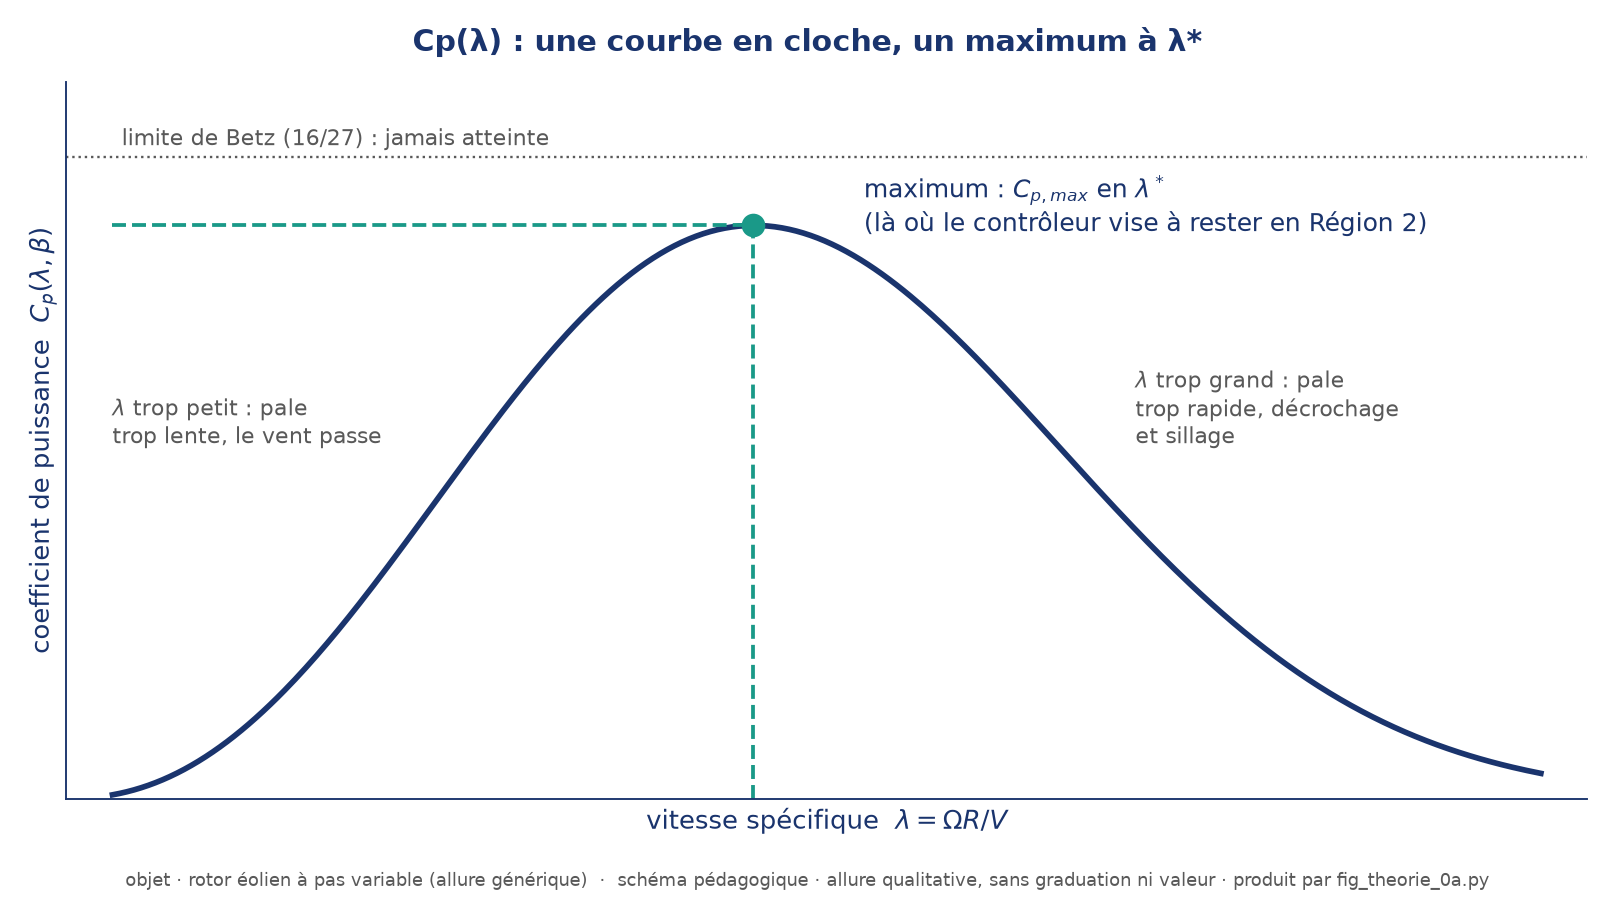
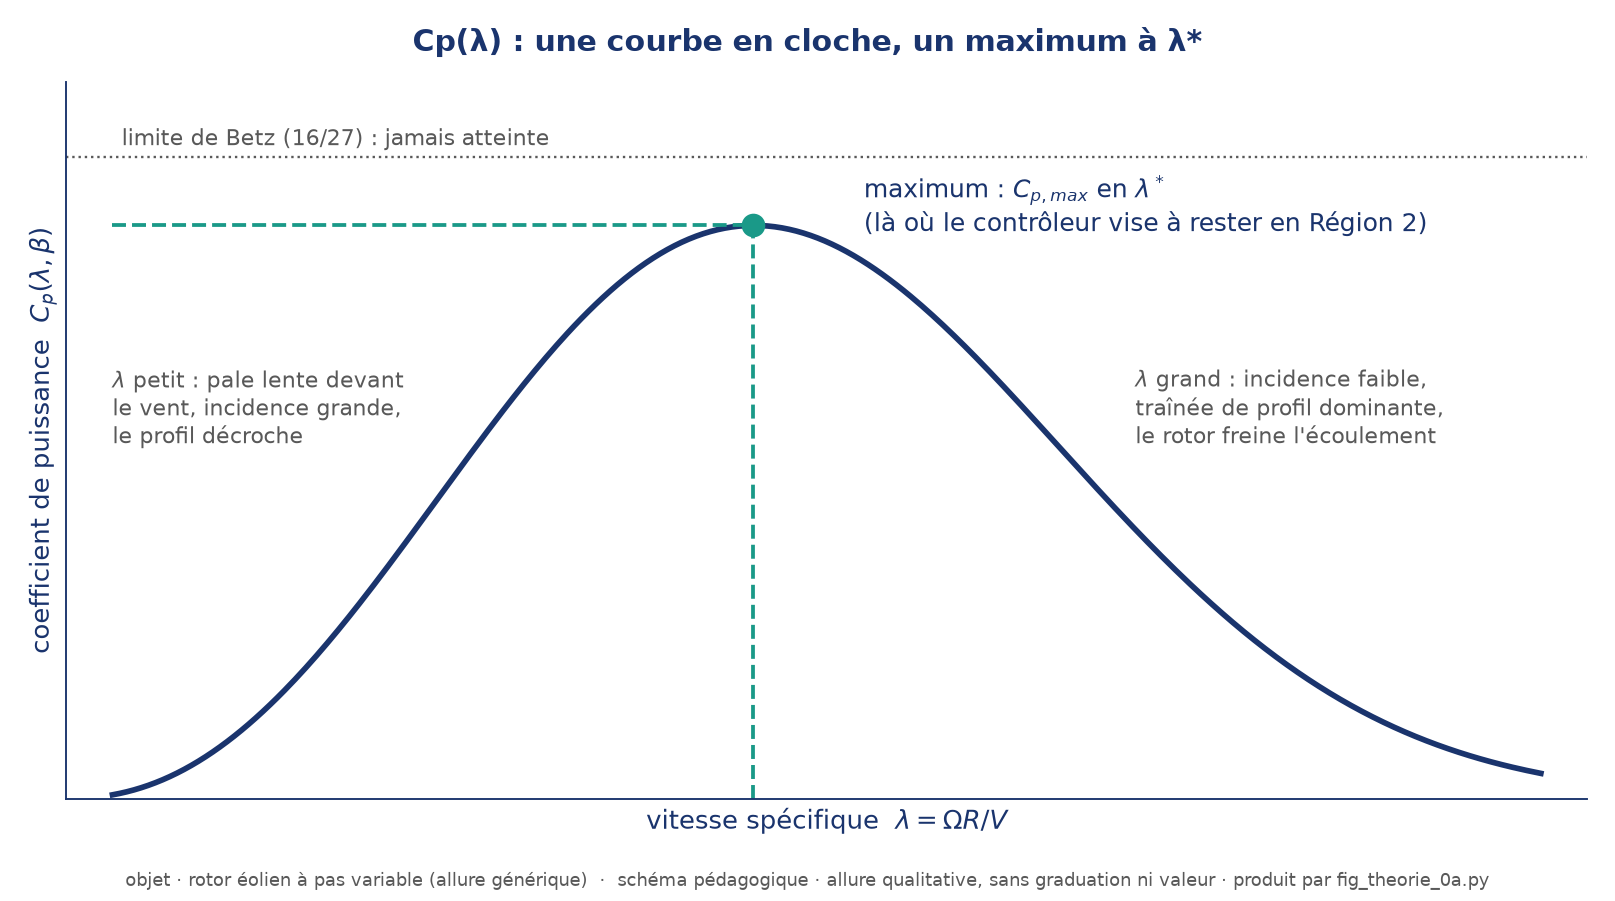
LOT F : loi de rampe, courbe Cp(lambda) du modele (donnees + script), methode d'equilibre des couples, F1/README 0a/ENONCE, DTU invisible, figures corrigees

Changed region(s): [[0.7121, 0.404, 0.8978, 0.4972], [0.0619, 0.404, 0.2477, 0.4972]]

diff --git a/outils/courbe_cp_nrel5mw.py b/outils/courbe_cp_nrel5mw.py
@@ -1,0 +1,96 @@
+#!/usr/bin/env python3
+"""Courbe Cp(λ) de la NREL 5 MW à calage nul, calculée sur le modèle du dépôt.
+
+POURQUOI : Jonkman 2009 ne donne que le point maximal (Cp = 0,482 à λ = 7,55, calage 0°, §7.2 p.19),
+pas la courbe. Pour résoudre à la main l'équilibre des couples en Region 1½ (séance 0a, Q0.1), il faut
+la courbe : on la calcule avec le modèle `modele_fixe` lui-même (AeroDyn v15, BEMT quasi-stationnaire,
+`Wake_Mod = 1`), pour que la courbe et les cas F01/F02 parlent du même modèle.
+
+MÉTHODE : le rotor est tenu à vitesse imposée (`GenDOF` faux, `RotSpeed` fixe), calage 0°, vent
+stationnaire de 8 m/s au moyeu avec le même cisaillement que F01 (exposant 0,11), toutes les autres
+dynamiques coupées (lames rigides, tour et plateforme fixes, ni contrôleur, ni hydro, ni SubDyn). On
+relève `RtAeroCp` (rendement aérodynamique du rotor, défini par OpenFAST), moyenné sur un nombre ENTIER
+de tours (le cisaillement et l'ombre de la tour font osciller le signal à 1P et 3P).
+`λ = Ω·R/V` avec R = 63 m, V = vitesse au moyeu (définition de la fiche F1).
+
+SORTIE : `data/cp_lambda_nrel5mw_pitch0.csv` (λ, Ω, Cp) — suivi par git, relu par la fiche F1.
+
+Usage (environnement s9gm-fowt actif, depuis la racine du dépôt) :
+    python outils/courbe_cp_nrel5mw.py
+"""
+import csv
+import math
+import shutil
+import sys
+from pathlib import Path
+
+import numpy as np
+
+RACINE = Path(__file__).resolve().parents[1]
+sys.path.insert(0, str(RACINE))
+from s9gm import cas, lancer, lire  # noqa: E402
+
+MODELE = RACINE / "tutorials" / "prise_en_main" / "modele_fixe"
+TRAVAIL = RACINE / "results" / "_cp"
+SORTIE = RACINE / "data" / "cp_lambda_nrel5mw_pitch0.csv"
+R, V = 63.0, 8.0
+LAMBDAS = [1, 2, 3, 4, 5, 6, 7, 7.55, 8, 9, 10, 11, 12, 13, 14, 15, 16]
+DOF_COUPES = ["FlapDOF1", "FlapDOF2", "EdgeDOF", "DrTrDOF", "GenDOF", "YawDOF", "TwFADOF1",
+              "TwFADOF2", "TwSSDOF1", "TwSSDOF2", "PtfmSgDOF", "PtfmSwDOF", "PtfmHvDOF",
+              "PtfmRDOF", "PtfmPDOF", "PtfmYDOF"]
+
+
+def preparer(lam):
+    d = TRAVAIL / f"lam_{lam:g}"
+    if d.exists():
+        shutil.rmtree(d)
+    shutil.copytree(MODELE, d)
+    rpm = lam * V / R * 60 / (2 * math.pi)
+
+    def edite(nom, modifs):
+        lignes, fin = cas._lire_lignes(d / nom)
+        for k, v in modifs.items():
+            cas.remplacer_valeur(lignes, k, v)
+        cas._ecrire_lignes(d / nom, lignes, fin)
+
+    edite("main.fst", {"TMax": "60", "CompServo": "0", "CompSeaSt": "0", "CompHydro": "0",
+                       "CompSub": "0"})
+    edite("config_inflow.dat", {"WindType": "1", "HWindSpeed": f"{V:g}", "PLExp": "0.11"})
+    edite("config_elastodyn.dat", {**{k: "False" for k in DOF_COUPES}, "RotSpeed": f"{rpm:.6f}",
+                                   "BlPitch(1)": "0", "BlPitch(2)": "0", "BlPitch(3)": "0"})
+    return d, rpm
+
+
+def cp_moyen(d):
+    df, _ = lire.lire(d / "main.outb")
+    t = df["Time"].to_numpy()
+    m = t >= 20.0
+    az = np.unwrap(np.radians(df.loc[m, "Azimuth"].to_numpy()))
+    tours = int((az[-1] - az[0]) // (2 * math.pi))
+    if tours < 1:  # rotor très lent : moins d'un tour dans la fenêtre -> on prend toute la fenêtre
+        k = m.sum()
+    else:
+        fin = np.searchsorted(az - az[0], tours * 2 * math.pi)
+        k = max(fin, 2)
+    return float(df.loc[m, "RtAeroCp"].to_numpy()[:k].mean()), tours
+
+
+def main():
+    TRAVAIL.mkdir(parents=True, exist_ok=True)
+    preps = [preparer(l) for l in LAMBDAS]
+    res = lancer.lancer_serie([d for d, _ in preps], coeurs=4, reprise=False)
+    mauvais = [r["cas"] for r in res if r["statut"] != "termine"]
+    if mauvais:
+        sys.exit(f"cas en échec : {mauvais}")
+    SORTIE.parent.mkdir(exist_ok=True)
+    with open(SORTIE, "w", newline="", encoding="utf-8") as f:
+        w = csv.writer(f)
+        w.writerow(["lambda", "omega_rpm", "Cp", "tours_moyennes"])
+        for lam, (d, rpm) in zip(LAMBDAS, preps):
+            cp, tours = cp_moyen(d)
+            w.writerow([f"{lam:g}", f"{rpm:.3f}", f"{cp:.4f}", tours])
+            print(f"lambda={lam:>5g}  Omega={rpm:6.2f} rpm  Cp={cp:7.4f}  ({tours} tours)")
+
+
+if __name__ == "__main__":
+    main()

diff --git a/fiches/F1_Aero-regulation.md b/fiches/F1_Aero-regulation.md
@@ -35,7 +35,7 @@ plate autour : un écart modéré de `λ` coûte peu de puissance.*
 NREL 5 MW de ce projet) ; Jonkman 2009 en distingue cinq (1, 1½, 2, 2½, 3), et le contrôleur
 du modèle les met toutes en œuvre. Elles se repèrent à la **vitesse de rotation côté génératrice**
 (`Ω_gen = 97 · Ω_rotor`, multiplicateur 97:1) :
-- **Region 1** (sous `VS_CtInSp`) : couple générateur nul, le rotor accélère librement.
+- **Region 1** (sous `VS_CtInSp`) : couple générateur nul : aucune puissance électrique (`P = 0`), le rotor accélère sous l'effet du vent (Jonkman 2009, §7.2 p.19 : la Region 1 précède le cut-in).
 - **Region 1½** (entre `VS_CtInSp` et `VS_Rgn2Sp`) : transition de démarrage — le couple suit une
   **rampe linéaire** qui part de zéro à `VS_CtInSp` et rejoint la loi de Region 2 à `VS_Rgn2Sp`.
   La rampe est raide : la vitesse reste confinée dans cette bande étroite, et la machine produit
@@ -88,6 +88,50 @@ plus bas, la rampe tient la vitesse dans sa bande et la loi `λ*·V/R` sous-esti
 régime nominal — **à vous de calculer à quelle vitesse de vent ce régime est atteint**, et de comparer ce résultat au vent
 nominal (11,4 m/s) : si les deux diffèrent, c'est que la Region 2½ s'intercale entre les deux,
 avant la Region 3.
+
+## Region 1½ : la loi de la rampe, la courbe `Cp(λ)` et l'équilibre des couples
+
+En Region 2 la loi `λ*·V/R` donne `Ω` directement. **En Region 1½ elle ne suffit pas** : la rampe de couple
+impose une bande de vitesse et `Ω` se *calcule* par un équilibre. Trois ingrédients, tous donnés ici.
+
+**1. La loi de couple du contrôleur** (donnée d'entrée, `DISCON.F90` : `VS_Slope15` ligne 175, couples
+lignes 383-391), côté génératrice, avec `ω_g = N·Ω` (rad/s, `N = 97`) :
+
+| Région | Couple générateur `Q_gen(ω_g)` (N·m, côté génératrice) |
+|---|---|
+| 1 : `ω_g ≤ VS_CtInSp` | `0` |
+| 1½ : `VS_CtInSp < ω_g < VS_Rgn2Sp` | `VS_Slope15 · (ω_g − VS_CtInSp)`, avec `VS_Slope15 = VS_Rgn2K · VS_Rgn2Sp² / (VS_Rgn2Sp − VS_CtInSp)` |
+| 2 : au-dessus, jusqu'à la Region 2½ | `VS_Rgn2K · ω_g²` |
+
+avec `VS_CtInSp = 70,16224 rad/s`, `VS_Rgn2Sp = 91,21091 rad/s`, `VS_Rgn2K = 2,332287 N·m/(rad/s)²`.
+Côté rotor, le couple équivalent est `N · Q_gen(N·Ω)`.
+
+**2. La courbe `Cp(λ)` de la NREL 5 MW à calage nul.** Jonkman 2009 ne donne que le point maximal (`Cp = 0,482`
+à `λ = 7,55`, §7.2 p.19). La courbe ci-dessous est **calculée sur le modèle du dépôt** (OpenFAST v5.0.0, AeroDyn v15,
+rotor à vitesse imposée, calage 0°, `V` = 8 m/s au moyeu, cisaillement 0,11 comme F01 ; script
+`outils/courbe_cp_nrel5mw.py`, données `data/cp_lambda_nrel5mw_pitch0.csv`). Son maximum (≈ 0,47 vers `λ = 7`) diffère
+de quelques pour cent du point de Jonkman : on utilise la courbe du dépôt pour rester cohérent avec les cas F01 et F02.
+
+| λ | 1 | 2 | 3 | 4 | 5 | 6 | 7 | 7,55 | 8 | 9 | 10 | 11 | 12 | 13 | 14 | 15 | 16 |
+|---|---|---|---|---|---|---|---|---|---|---|---|---|---|---|---|---|---|
+| Cp | 0,0058 | 0,0243 | 0,1054 | 0,2229 | 0,3645 | 0,4468 | 0,4660 | 0,4644 | 0,4610 | 0,4431 | 0,4144 | 0,3779 | 0,3334 | 0,2850 | 0,2306 | 0,1651 | 0,0880 |
+
+![Cp(λ) de la NREL 5 MW à calage nul, calculée sur le modèle du dépôt](figures/FIG-DMO-S9-008.png)
+
+*Figure 6 — `Cp(λ)` du modèle du dépôt à calage nul. Contrairement aux figures 1 à 5, celle-ci est chiffrée :
+c'est une courbe de la machine, pas une réponse de rendu.*
+
+**3. La méthode d'équilibre.** À vent `V` fixé, la vitesse d'équilibre `Ω` vérifie l'égalité des couples,
+ramenés côté rotor :
+
+`Q_aéro(Ω) = ½ ρ π R² V³ · Cp(ΩR/V) / Ω  =  N · Q_gen(N·Ω)`.
+
+Deux façons de la résoudre : **graphiquement** (tracer les deux membres en fonction de `Ω`, l'intersection est le
+point de fonctionnement) ou **par itération** (partir d'un `Ω` plausible, évaluer l'écart des deux couples, corriger
+`Ω` dans le sens qui le réduit — bissection ou Newton). Lire `Cp` par interpolation dans le tableau. Pour la
+**puissance** : `P_élec = η · N · Q_gen(N·Ω) · Ω` (rendement électrique `η = 0,944`, Jonkman 2009). En Region 2, la même
+méthode s'applique, avec le couple en `ω_g²`. *Q0.1 exige `Ω` dans chaque région : loi `λ*·V/R` en Region 2, équilibre des
+couples en Region 1½.*
 
 ## Confrontation OpenFAST
 
@@ -170,21 +214,12 @@ Sur l'IEA 15 MW, mêmes données et hypothèses que ci-dessus. Corrigé :
    de combien en pour cent, et pourquoi la tolérance habituelle de ±20 % l'aurait-elle laissée passer
    ou non ?
 
-## Pour aller plus loin — matière du cours DTU (emplacements réservés)
-
-*Un cours construit avec le DTU arrive : sa matière d'aéro-régulation deviendra la source du master
-DMO-S9 (la fiche F1 sert de source provisoire). Les emplacements ci-dessous se remplissent sans
-réécrire les sections précédentes.*
-
-<!-- DTU:BEGIN D1 -->
-**D1. Aérodynamique du rotor (BEM, `Cp(λ, β)` détaillée)** — *(à venir)*
-<!-- DTU:END D1 -->
-<!-- DTU:BEGIN D2 -->
-**D2. Contrôle et régulation (lois de couple, calage, régions, ROSCO / DISCON)** — *(à venir)*
-<!-- DTU:END D2 -->
-<!-- DTU:BEGIN D3 -->
-**D3. Charges et fréquences (1P/3P, diagramme de Campbell, résonances)** — *(à venir)*
-<!-- DTU:END D3 -->
+<!-- DTU : emplacements réservés, invisibles des étudiants — matière du cours construit avec le DTU, future source du master DMO-S9
+     (aéro-régulation). Crédit à inscrire quand la matière entrera : « Technical University of Denmark (DTU) — https://www.dtu.dk/english ».
+[DTU:BEGIN D1] D1. Aérodynamique du rotor (BEM, Cp(λ, β) détaillée) [DTU:END D1]
+[DTU:BEGIN D2] D2. Contrôle et régulation (lois de couple, calage, régions, ROSCO / DISCON) [DTU:END D2]
+[DTU:BEGIN D3] D3. Charges et fréquences (1P/3P, diagramme de Campbell, résonances) [DTU:END D3]
+-->
 
 ## Limites
 

diff --git a/seances/0a/README.md b/seances/0a/README.md
@@ -115,13 +115,15 @@ Doit se terminer par `OpenFAST terminated normally.`.
    fixe quel que soit le vent, et pourquoi faut-il la piloter (couple générateur, puis pitch)
    plutôt que la laisser suivre librement l'aérodynamique ?
 2. **Modèle** — TSR `λ = Ω·R/V` ; coefficient de puissance `Cp(λ,β)`, maximal pour un `λ*`
-   donné ; loi de Region 2 `Ω(V) = λ*·V/R` (couple piloté, pitch fixe). **Domaine de validité** :
+   donné ; loi de Region 2 `Ω(V) = λ*·V/R` (couple piloté, pitch fixe) ; en Region 1½, `Ω` est solution de l'équilibre
+   `Q_aéro(Ω) = N·Q_gen(NΩ)` (couple aérodynamique `½ρπR²V³·Cp(λ)/Ω` contre couple de la rampe du
+   contrôleur, fiche F1). **Domaine de validité** :
    machine à vitesse variable et pitch variable (c'est le cas ici), et seulement entre le seuil de
    Region 2 et le régime nominal : en dessous, la rampe de couple de Region 1½ gouverne ; au-delà,
    Region 2½ puis 3. Repérez la région avant d'appliquer une loi.
-3. **Ordre de grandeur attendu** — la méthode : calculer `Ω` pour chaque vitesse de vent du
-   tableau demandé via `λ*·V/R`, repérer la vitesse de vent où `Ω` atteint le régime nominal donné
-   par la fiche F1. Les valeurs numériques du cas particulier F01/F02 répondent à une question
+3. **Ordre de grandeur attendu** — la méthode : pour chaque vitesse de vent du tableau, repérer la région
+   (seuils de la fiche F1), puis calculer `Ω` par la loi `λ*·V/R` (Region 2) ou par l'équilibre des couples
+   (Region 1½) ; repérer la vitesse de vent où `Ω` atteint le régime nominal donné par la fiche F1. Les valeurs numériques du cas particulier F01/F02 répondent à une question
    notée (Q0.1/Q0.2) : ne les cherchez pas dans ce dépôt, calculez-les.
 4. **Ce que le modèle ne permet pas de conclure** — la loi `λ* = constante` est une
    approximation : la loi de couple réelle du contrôleur peut s'en écarter légèrement à certaines
@@ -140,8 +142,9 @@ Doit se terminer par `OpenFAST terminated normally.`.
 
 Avec la fiche F1 : R = 63 m, vitesse de bout de pale maximale 80 m/s, régime nominal 12,1 tr/min,
 puissance nominale 5 MW, TSR optimal 7,55 (Jonkman 2009). Construisez le tableau vitesse de vent →
-vitesse de rotation → puissance, et identifiez les zones de fonctionnement (Region 1½, 2, 2½, 3).
-C'est la question Q0.1 du rendu R0.
+vitesse de rotation → puissance, et identifiez les zones de fonctionnement (Region 1½, 2, 2½, 3), **avec l'`Ω` attendu dans chaque région** :
+loi `λ*·V/R` en Region 2, **équilibre des couples** en Region 1½ (la fiche F1 donne la loi de la rampe du
+contrôleur, la courbe `Cp(λ)` du modèle à calage nul et la méthode). C'est la question Q0.1 du rendu R0.
 
 ## 6. Cas F01 et F02 — éolienne fixe (environ 45 min)
 

diff --git a/ENONCE.md b/ENONCE.md
@@ -127,7 +127,7 @@ Le projet couvre l'essentiel de l'UE. Geotechnical Data (CM 4 h), la conférence
    - vérifier : `openfast -v` doit afficher **`OpenFAST-v5.0.0`**. Une autre version = installation à reprendre.
 2. **Organisation d'un calcul** : fichiers de base du modèle / un dossier par cas de charge / un script de lancement. Lancer les cas LHEEA 01 (tour seule) et 02 (rotor libre) pour vérifier que tout fonctionne.
 3. **Lire un `.fst`** : pour chaque section, dire ce qu'on modifie pour débuter (durée, pas de temps, modules actifs, degrés de liberté, sorties) et ce qu'on laisse tel quel.
-4. **Régulation de l'éolienne NREL 5 MW, à la main** (fiche F1) : avec R = 63 m, vitesse en bout de pale maximale 80 m/s, régime nominal 12,1 tr/min, puissance nominale 5 MW et un TSR optimal de 7,55 (Jonkman 2009), construire le tableau vitesse de vent → vitesse de rotation → puissance, et identifier les zones de fonctionnement (Region 1½, 2, 2½, 3).
+4. **Régulation de l'éolienne NREL 5 MW, à la main** (fiche F1) : avec R = 63 m, vitesse en bout de pale maximale 80 m/s, régime nominal 12,1 tr/min, puissance nominale 5 MW et un TSR optimal de 7,55 (Jonkman 2009), construire le tableau vitesse de vent → vitesse de rotation → puissance, et identifier les zones de fonctionnement (Region 1½, 2, 2½, 3) et l'`Ω` attendu dans chaque région (loi `λ*·V/R` en Region 2, équilibre des couples en Region 1½).
 5. **Éolienne fixe (monopieu OC3), cas à vent constant et à échelon** :
 
 | Cas | Vent | Ce qu'on regarde |

diff --git a/fiches/FORMULAIRE.md b/fiches/FORMULAIRE.md
@@ -75,11 +75,9 @@ Test de bon sens : une sinusoïde d'étendue et de fréquence connues doit redon
 | Von Mises (σ axial + τ) : `σ_VM = √(σ² + 3 τ²)` | Pa | comparer à la limite élastique avec coefficient |
 | Nœud tubulaire : `β = d / D` (d : diamètre de l'entretoise, D : du membre principal) | – | les formules paramétriques (Efthymiou) ont un **domaine de validité** ; hors domaine, refuser le calcul, ne pas extrapoler |
 
-## Emplacements réservés (matière du cours DTU)
-
-<!-- DTU:BEGIN FORM-AERO -->
-*Aéro-régulation et charges — relations supplémentaires du cours DTU : à venir.*
-<!-- DTU:END FORM-AERO -->
+<!-- DTU : emplacement réservé, invisible des étudiants — relations supplémentaires d'aéro-régulation et de charges du cours construit
+     avec le DTU. Crédit à inscrire quand la matière entrera : « Technical University of Denmark (DTU) — https://www.dtu.dk/english ».
+     [DTU:BEGIN FORM-AERO] [DTU:END FORM-AERO] -->
 
 ## Sources
 
